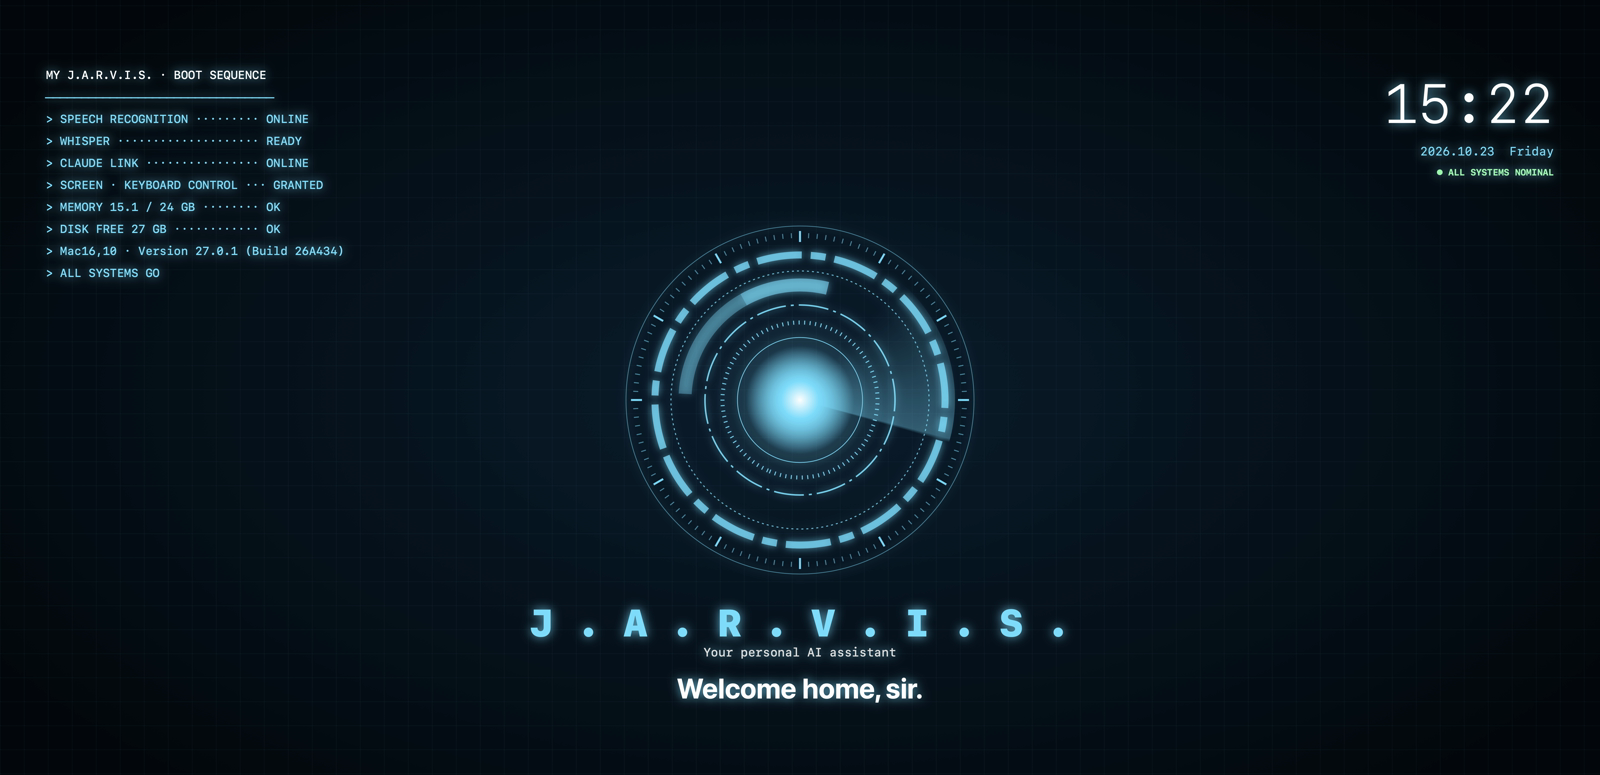
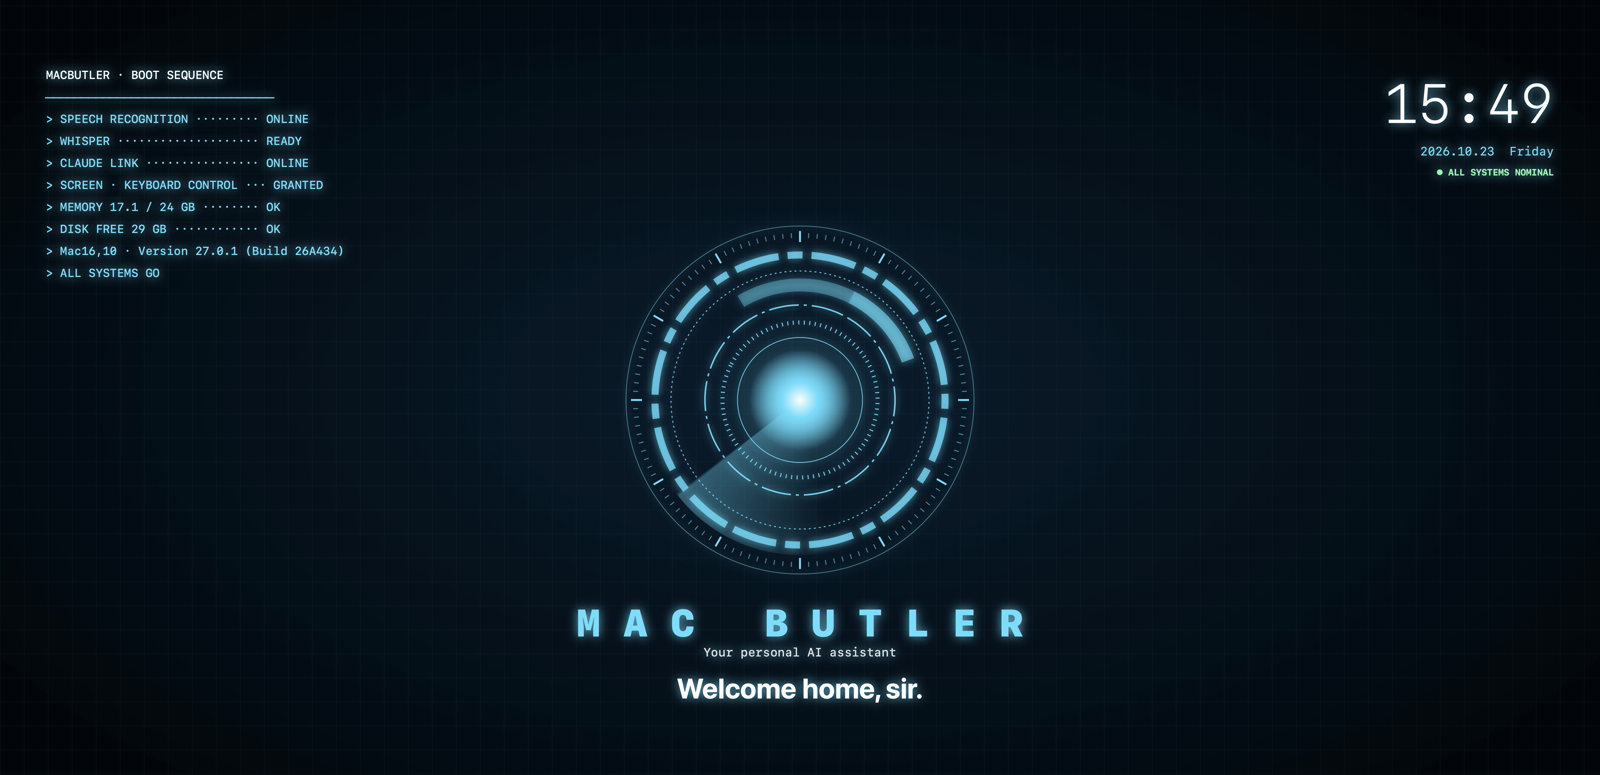
Rename to Mac Butler (0.2.0) — repo mac-butler, MacButler.app, ~/.macbutler (auto-migrated), butler CLI; wake word stays “Jarvis” by default

diff --git a/Sources/MacButler/main.swift b/Sources/MacButler/main.swift
@@ -1,20 +1,21 @@
-// My Jarvis — an always-listening voice assistant for macOS, powered by Claude Code.
+// Mac Butler — an always-listening voice assistant for macOS, powered by Claude Code.
+// The assistant answers to "Jarvis" by default (configurable: assistantName / wakeWords).
 // Say the wake word, then talk. It types, clicks, opens things, and hands bigger jobs to Claude.
 import AppKit
 import AVFoundation
 import Speech
 
 final class AppDelegate: NSObject, NSApplicationDelegate, NSMenuDelegate {
-    var jarvis: Jarvis?
+    var butler: Butler?
     var item: NSStatusItem!
     var cfg = Config()
     var statusItems: [NSMenuItem] = []
     func applicationDidFinishLaunching(_ n: Notification) {
         cfg = Config.load()
         let cfg = self.cfg
-        let S = Strings(ko: cfg.ko)
+        let S = Strings(ko: cfg.ko, name: cfg.assistantName)
         item = NSStatusBar.system.statusItem(withLength: NSStatusItem.variableLength)
-        item.button?.title = "◉J"
+        item.button?.title = "◉" + String(cfg.assistantName.prefix(1)).uppercased()
         let menu = NSMenu()
         menu.addItem(withTitle: S.menuToggle(), action: #selector(toggle), keyEquivalent: "")
         menu.addItem(withTitle: S.menuGreet(), action: #selector(greet), keyEquivalent: "")
@@ -43,8 +44,8 @@ final class AppDelegate: NSObject, NSApplicationDelegate, NSMenuDelegate {
             SFSpeechRecognizer.requestAuthorization { st in
                 DispatchQueue.main.async {
                     log("permissions: mic=\(ok) speech=\(st.rawValue) accessibility=\(AXIsProcessTrusted()) screen=\(CGPreflightScreenCaptureAccess())")
-                    let j = Jarvis(cfg: cfg)
-                    self.jarvis = j
+                    let j = Butler(cfg: cfg)
+                    self.butler = j
                     j.start()
                 }
             }
@@ -56,7 +57,7 @@ final class AppDelegate: NSObject, NSApplicationDelegate, NSMenuDelegate {
         ("mic", "Privacy_Microphone"), ("speech", "Privacy_SpeechRecognition"), ("ax", "Privacy_Accessibility"),
         ("screen", "Privacy_ScreenCapture"), ("claude", ""), ("whisper", "")]
     func menuWillOpen(_ menu: NSMenu) {
-        let S = Strings(ko: cfg.ko)
+        let S = Strings(ko: cfg.ko, name: cfg.assistantName)
         let ok: [Bool] = [
             AVCaptureDevice.authorizationStatus(for: .audio) == .authorized,
             SFSpeechRecognizer.authorizationStatus() == .authorized,
@@ -86,31 +87,31 @@ final class AppDelegate: NSObject, NSApplicationDelegate, NSMenuDelegate {
             guard let self, e.keyCode == code else { return }
             let flag: NSEvent.ModifierFlags = code == 54 ? .command : .option
             if e.modifierFlags.contains(flag) { self.hotkeyDown = true }
-            else if self.hotkeyDown { self.hotkeyDown = false; DispatchQueue.main.async { self.jarvis?.manualWake() } }
+            else if self.hotkeyDown { self.hotkeyDown = false; DispatchQueue.main.async { self.butler?.manualWake() } }
         }
         NSEvent.addGlobalMonitorForEvents(matching: .flagsChanged, handler: handler)
         NSEvent.addGlobalMonitorForEvents(matching: .keyDown) { [weak self] _ in self?.hotkeyDown = false }   // ⌥+key combos don't count
     }
 
     @objc func toggle() {
-        guard let j = jarvis else { return }
+        guard let j = butler else { return }
         j.enabled.toggle()
-        item.button?.title = j.enabled ? "◉J" : "○J"
+        let ch = String(cfg.assistantName.prefix(1)).uppercased(); item.button?.title = (j.enabled ? "◉" : "○") + ch
         if !j.enabled { j.goIdle() }
     }
-    @objc func greet() { jarvis?.greet() }
+    @objc func greet() { butler?.greet() }
     @objc func openFolder() { NSWorkspace.shared.open(Paths.home) }
     @objc func quit() { NSApp.terminate(nil) }
-    func applicationWillTerminate(_ n: Notification) { jarvis?.shutdown() }
+    func applicationWillTerminate(_ n: Notification) { butler?.shutdown() }
 }
 
-// `MyJarvis --selftest` checks the command grammar without a microphone.
+// `MacButler --selftest` checks the command grammar without a microphone.
 if CommandLine.arguments.contains("--selftest") { exit(SelfTest.run() ? 0 : 1) }
 
 let delegate = AppDelegate()
 signal(SIGTERM, SIG_IGN)   // stop Whisper / Claude children when launchd stops us
 let termSource = DispatchSource.makeSignalSource(signal: SIGTERM, queue: .main)
-termSource.setEventHandler { delegate.jarvis?.shutdown(); exit(0) }
+termSource.setEventHandler { delegate.butler?.shutdown(); exit(0) }
 termSource.resume()
 
 let app = NSApplication.shared

diff --git a/Sources/MacButler/Butler.swift b/Sources/MacButler/Butler.swift
@@ -1,7 +1,7 @@
 // The conductor: listens, decides, acts, speaks.
 import AppKit
 
-final class Jarvis {
+final class Butler {
     enum Mode { case idle, awake, dictation, busy, speaking }
     var mode: Mode = .idle
     let cfg: Config
@@ -22,7 +22,7 @@ final class Jarvis {
 
     init(cfg: Config) {
         self.cfg = cfg
-        S = Strings(ko: cfg.ko)
+        S = Strings(ko: cfg.ko, name: cfg.assistantName)
         parser = Parser(cfg: cfg)
         ear = Ear(locale: cfg.locale, hints: cfg.wakes + cfg.greets + (cfg.ko ? ["클로드", "엔터", "받아써", "그만"] : ["Claude", "enter", "stop"]))
         mouth = Mouth(cfg: cfg)
@@ -49,20 +49,20 @@ final class Jarvis {
         }
     }
 
-    /// Local signals from the bundled tools (`jarvis-ping`). Same-machine only.
+    /// Local signals from the bundled tools (`butler`). Same-machine only.
     private func listenForSignals() {
         let dnc = DistributedNotificationCenter.default()
-        dnc.addObserver(forName: .init("com.myjarvis.type"), object: nil, queue: .main) { n in
+        dnc.addObserver(forName: .init("com.macbutler.type"), object: nil, queue: .main) { n in
             guard let t = n.object as? String else { return }
             DispatchQueue.global().async { Hands.typeVisible(t) }
         }
-        dnc.addObserver(forName: .init("com.myjarvis.delegate"), object: nil, queue: .main) { [weak self] n in
+        dnc.addObserver(forName: .init("com.macbutler.delegate"), object: nil, queue: .main) { [weak self] n in
             let parts = (n.object as? String ?? "").split(separator: "|", maxSplits: 1, omittingEmptySubsequences: false).map { String($0).trimmingCharacters(in: .whitespaces) }
             guard let self, parts.count == 2, !parts[1].isEmpty else { return }
             DispatchQueue.main.asyncAfter(deadline: .now() + 0.2) { self.claudeMacro(target: parts[0], message: parts[1], newSession: parts[0].isEmpty) }
         }
         // Text instead of voice — for testing and screen recordings.
-        dnc.addObserver(forName: .init("com.myjarvis.say"), object: nil, queue: .main) { [weak self] n in
+        dnc.addObserver(forName: .init("com.macbutler.say"), object: nil, queue: .main) { [weak self] n in
             guard let self, let t = n.object as? String else { return }
             log("text command: \(t)")
             if self.parser.isGreeting(t) { self.greet(); return }
@@ -201,7 +201,7 @@ final class Jarvis {
         req.setValue("Mozilla/5.0 (Macintosh; Intel Mac OS X 10_15_7) AppleWebKit/537.36 (KHTML, like Gecko) Chrome/130 Safari/537.36", forHTTPHeaderField: "User-Agent")
         req.timeoutInterval = 6
         URLSession.shared.dataTask(with: req) { [weak self] data, _, _ in
-            let list = Jarvis.parseYouTube(data.flatMap { String(data: $0, encoding: .utf8) } ?? "")
+            let list = Butler.parseYouTube(data.flatMap { String(data: $0, encoding: .utf8) } ?? "")
             DispatchQueue.main.async {
                 guard let self else { return }
                 self.ytList = list
@@ -224,11 +224,11 @@ final class Jarvis {
         mode = .busy
         hud.show(S.claudeOpen, message, heard: target.isEmpty ? "Claude" : "\(target) · Claude", color: amber, speed: 3)
         log("claude[\(target)\(newSession ? " new" : "")]: \(message)")
-        NSRunningApplication.runningApplications(withBundleIdentifier: Jarvis.claudeBundle).first?.activate()
+        NSRunningApplication.runningApplications(withBundleIdentifier: Butler.claudeBundle).first?.activate()
         DispatchQueue.global(qos: .userInitiated).async { [weak self] in
             guard let self else { return }
             Thread.sleep(forTimeInterval: 0.3)
-            guard let app = AX.app(Jarvis.claudeBundle) else { DispatchQueue.main.async { self.fail(self.S.claudeNotRunning) }; return }
+            guard let app = AX.app(Butler.claudeBundle) else { DispatchQueue.main.async { self.fail(self.S.claudeNotRunning) }; return }
             var wins = AX.windows(app)
             if wins.isEmpty { Thread.sleep(forTimeInterval: 0.4); wins = AX.windows(app) }
             guard var win = wins.first else { DispatchQueue.main.async { self.fail(self.S.claudeNoWindow) }; return }

diff --git a/Sources/MacButler/Config.swift b/Sources/MacButler/Config.swift
@@ -1,4 +1,4 @@
-// Settings live in ~/.myjarvis/config.json (override the folder with MYJARVIS_HOME).
+// Settings live in ~/.macbutler/config.json (override the folder with MACBUTLER_HOME).
 // Every key is optional — missing keys fall back to the defaults below.
 import Foundation
 
@@ -27,13 +27,13 @@ struct Config: Codable {
     var wakeWords: [String] = []        // empty → language default
     var greetPhrases: [String] = []     // empty → language default ("아빠 왔어", "daddy's home" …)
     var greetingText = ""               // empty → "어서 오십시오, {user}" / "Welcome home, {user}."
-    var bootTitle = "J . A . R . V . I . S ."
+    var bootTitle = "M A C   B U T L E R"
     var bootSubtitle = ""               // empty → "{user}의 개인 비서" / "Personal assistant of {user}" (or a generic line)
     var greetOpen: [String] = []        // URLs to open when greeted
 
     var claudePath = ""                 // empty → auto-detect `claude`
     var claudeModel = "sonnet"
-    var whisperModel = ""               // empty → ~/.myjarvis/models/ggml-large-v3-turbo-q8_0.bin
+    var whisperModel = ""               // empty → ~/.macbutler/models/ggml-large-v3-turbo-q8_0.bin
     var whisperServer = ""              // empty → auto-detect `whisper-server`
 
     var tts = "say"                     // "say" (macOS voices) or "elevenlabs"
@@ -104,9 +104,12 @@ struct Config: Codable {
 
 enum Paths {
     static let home: URL = {
-        let env = ProcessInfo.processInfo.environment["MYJARVIS_HOME"]
-        let u = env.map { URL(fileURLWithPath: ($0 as NSString).expandingTildeInPath) }
-            ?? FileManager.default.homeDirectoryForCurrentUser.appendingPathComponent(".myjarvis")
+        let env = ProcessInfo.processInfo.environment["MACBUTLER_HOME"]
+        let fm = FileManager.default
+        let def = fm.homeDirectoryForCurrentUser.appendingPathComponent(".macbutler")
+        let old = fm.homeDirectoryForCurrentUser.appendingPathComponent(".myjarvis")   // name before 0.2
+        if env == nil, !fm.fileExists(atPath: def.path), fm.fileExists(atPath: old.path) { try? fm.moveItem(at: old, to: def) }
+        let u = env.map { URL(fileURLWithPath: ($0 as NSString).expandingTildeInPath) } ?? def
         for sub in ["", "logs", "work", "voice", "models"] {
             try? FileManager.default.createDirectory(at: u.appendingPathComponent(sub), withIntermediateDirectories: true)
         }
@@ -136,7 +139,7 @@ enum Paths {
 func log(_ s: String) {
     let f = DateFormatter(); f.dateFormat = "yyyy-MM-dd HH:mm:ss"
     let line = "\(f.string(from: Date())) \(s)\n"
-    let url = Paths.home.appendingPathComponent("logs/jarvis.log")
+    let url = Paths.home.appendingPathComponent("logs/butler.log")
     if let h = try? FileHandle(forWritingTo: url) { h.seekToEndOfFile(); h.write(line.data(using: .utf8)!); try? h.close() }
     else { try? line.data(using: .utf8)!.write(to: url) }
 }

diff --git a/Tools/jax.swift b/Tools/jax.swift
@@ -1,7 +1,7 @@
 // jax — press buttons / links / text fields of the frontmost app by name, without moving the mouse (Accessibility).
 //   jax list [filter]            list pressable things (role | name)
 //   jax tap "name" [n]           press the n-th (default 1) element whose name contains the text
-//   jax field "field name" "text"  focus a text field and type into it (visibly, via My Jarvis)
+//   jax field "field name" "text"  focus a text field and type into it (visibly, via Mac Butler)
 import AppKit
 import ApplicationServices
 
@@ -82,7 +82,7 @@ case "field":
     AXUIElementSetAttributeValue(hit.0, kAXFocusedAttribute as CFString, kCFBooleanTrue)
     usleep(150_000)
     let text = a[2]
-    DistributedNotificationCenter.default().postNotificationName(.init("com.myjarvis.type"), object: text, userInfo: nil, deliverImmediately: true)
+    DistributedNotificationCenter.default().postNotificationName(.init("com.macbutler.type"), object: text, userInfo: nil, deliverImmediately: true)
     usleep(useconds_t(min(Double(text.count) * 0.03 + 0.3, 6) * 1_000_000))
     print("typed \(text.count) chars into \"\(hit.2.prefix(40))\"")
 default:

diff --git a/Sources/MacButler/Strings.swift b/Sources/MacButler/Strings.swift
@@ -3,6 +3,7 @@ import Foundation
 
 struct Strings {
     let ko: Bool
+    var name = "Jarvis"
     func t(_ k: String, _ e: String) -> String { ko ? k : e }
 
     var listening: String { t("● 듣는 중", "● Listening") }
@@ -12,7 +13,7 @@ struct Strings {
     var thinking: String { t("◌ 생각 중", "◌ Thinking") }
     var working: String { t("◌ 실행 중", "◌ Working") }
     var dictation: String { t("✎ 받아쓰기 · 「그만」하면 끝", "✎ Dictation · say “stop” to end") }
-    var speaking: String { "◉ " + "J.A.R.V.I.S." }
+    var speaking: String { "◉ " + name.uppercased() }
     var dictationStart: String { t("받아쓰겠습니다. 끝나면 그만이라고 해 주세요.", "Dictation on. Say stop when you're done.") }
     var micError: String { t("마이크를 열 수 없습니다", "Can't open the microphone") }
     var noClaude: String { t("클로드 코드를 찾지 못했습니다. 설치 후 다시 켜 주세요.", "Claude Code is not installed.") }

diff --git a/Sources/MacButler/BootScene.swift b/Sources/MacButler/BootScene.swift
@@ -189,7 +189,7 @@ final class BootScene {
         // Left: boot log with real numbers
         let mem = SysInfo.memory(), disk = SysInfo.diskFreeGB()
         let mono = NSFont.monospacedSystemFont(ofSize: 23, weight: .medium)
-        let log: [String] = ["MY J.A.R.V.I.S. · BOOT SEQUENCE", "────────────────────────────────"] + text.strings.bootLines + [
+        let log: [String] = [text.title.replacingOccurrences(of: "   ", with: "\u{1}").replacingOccurrences(of: " ", with: "").replacingOccurrences(of: "\u{1}", with: " ") + " · BOOT SEQUENCE", "────────────────────────────────"] + text.strings.bootLines + [
             String(format: text.strings.bootMemory, mem.used, mem.total),
             String(format: text.strings.bootDisk, disk),
             "> " + SysInfo.model(),

diff --git a/Sources/MacButler/Brain.swift b/Sources/MacButler/Brain.swift
@@ -14,11 +14,11 @@ final class Brain {
     private var pendingText: String?
     private var sent = 0, received = 0
     private var lastUse = Date()
-    init(cfg: Config) { self.cfg = cfg; self.strings = Strings(ko: cfg.ko) }
+    init(cfg: Config) { self.cfg = cfg; self.strings = Strings(ko: cfg.ko, name: cfg.assistantName) }
     var busy: Bool { done != nil }
     var installed: Bool { cfg.claudeBinary != nil }
 
-    /// System prompt: ~/.myjarvis/prompt.md if present, otherwise the bundled template for the language.
+    /// System prompt: ~/.macbutler/prompt.md if present, otherwise the bundled template for the language.
     func systemPrompt() -> String {
         let user = Paths.home.appendingPathComponent("prompt.md")
         let bundled = Paths.resources.appendingPathComponent("prompts/prompt.\(cfg.ko ? "ko" : "en").md")

diff --git a/Sources/MacButler/SelfTest.swift b/Sources/MacButler/SelfTest.swift
@@ -1,4 +1,4 @@
-// Grammar tests: `MyJarvis.app/Contents/MacOS/MyJarvis --selftest`
+// Grammar tests: `MacButler.app/Contents/MacOS/MacButler --selftest`
 import Foundation
 
 enum SelfTest {
@@ -53,7 +53,7 @@ enum SelfTest {
 
         // YouTube parser
         let html = #""videoRenderer":{"videoId":"abcdefghijk","thumbnail":{},"title":{"runs":[{"text":"First video"}]}"#
-        checkBool("youtube parse", Jarvis.parseYouTube(html).first?.id == "abcdefghijk")
+        checkBool("youtube parse", Butler.parseYouTube(html).first?.id == "abcdefghijk")
 
         print(fails == 0 ? "selftest: all \(total) passed" : "selftest: \(fails)/\(total) failed")
         return fails == 0

diff --git a/Tools/butler.swift b/Tools/butler.swift
@@ -1,0 +1,8 @@
+// Send a local signal to Mac Butler.   butler <say|type|delegate> <text>
+//   say       "open chrome"            — run a command as if spoken
+//   type      "hello"                  — type into the focused field, character by character
+//   delegate  "session name|task"      — hand a task to Claude (empty session name = new session)
+import Foundation
+let a = CommandLine.arguments
+guard a.count >= 2 else { print("usage: butler <say|type|delegate> <text>"); exit(1) }
+DistributedNotificationCenter.default().postNotificationName(.init("com.macbutler." + a[1]), object: a.dropFirst(2).joined(separator: " "), userInfo: nil, deliverImmediately: true)

diff --git a/Sources/MacButler/Commands.swift b/Sources/MacButler/Commands.swift
@@ -1,4 +1,4 @@
-// Turns a spoken sentence into an intent. Pure functions — covered by `MyJarvis --selftest`.
+// Turns a spoken sentence into an intent. Pure functions — covered by `MacButler --selftest`.
 // Anything that isn't matched here goes to Claude.
 import Foundation
 
